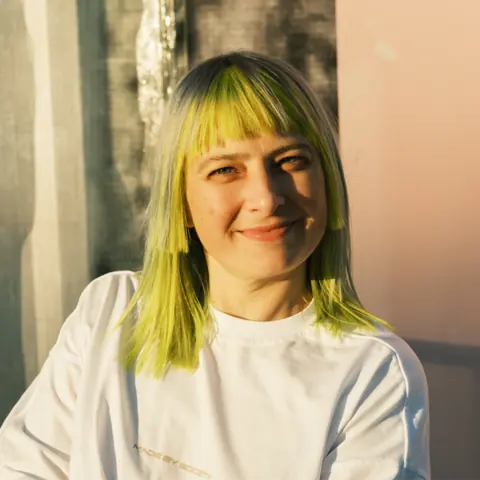
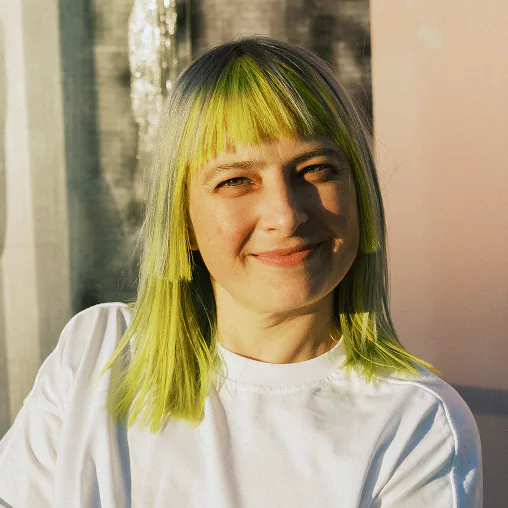
practitioners v1.3.0: three larger portraits, bun run portrait
Larger copies of the same shot, retouched, for johann-laur (978 px, from
tudock.de), jannik-streek (636 px, b310.de) and tereza-iofciu (508 px, her
website). Each won a blind review (CTO on a 2x laptop and a 3x phone, Claude
and Codex, two runs) outside the noise with both models and in both runs.
The other 30 portraits below 960 px on the website keep their files: no larger
copy of the same shot was found, or it tied or lost. Retouch alone tied with
the current files and sharp-2 lost (docs/agent-work/2026-11-08-portraits.md).

scripts/retouch-portrait.ts (bun run portrait) holds the treatment: crop,
gray-world white balance within 5 %, a highlight shoulder that only lowers,
Lanczos resize, optional sharp-2 on luminance, WebP q82. sharp is now a
direct devDependency at the version astro already installed.

AWAITING_ORIGINAL drops to 49: Johann Laur's portrait reaches the minimum.

diff --git a/scripts/retouch-portrait.ts b/scripts/retouch-portrait.ts
@@ -1,0 +1,150 @@
+// Deterministic portrait treatment, the same for every face and never a local edit of it:
+// optional square crop, white balance by channel gain, a tone curve whose soft highlight roll-off
+// tames skin shine, resize to the master size, and optionally sharp-2: an unsharp mask on luminance
+// only (radius 1.2 px, amount 70 %, threshold 2) at that size. WebP q82, as the website's
+// scripts/optimize-media.mjs encodes portraits. It never upscales.
+//
+//   bun run portrait <in> <out.webp> [--crop x,y,side] [--size px] [--sharpen] [--plain]
+//
+// --crop is the square in source pixels (head and shoulders, eyes about 40 % from the top);
+// --size defaults to the crop's side, capped at 1024; --plain skips white balance and tone.
+import sharp from "sharp";
+
+/** Gray-world gains at half strength, each within 5 % of neutral: a cast is pulled toward neutral
+ *  without repainting a coloured wall behind the person. */
+export function gains(rgb: Uint8Array): [number, number, number] {
+  const sum = [0, 0, 0];
+  let n = 0;
+  for (let i = 0; i < rgb.length; i += 3) {
+    const y = 0.299 * rgb[i]! + 0.587 * rgb[i + 1]! + 0.114 * rgb[i + 2]!;
+    if (y < 25 || y > 230) continue; // shadows and clipped highlights carry no cast
+    sum[0] += rgb[i]!;
+    sum[1] += rgb[i + 1]!;
+    sum[2] += rgb[i + 2]!;
+    n++;
+  }
+  if (!n) return [1, 1, 1];
+  const grey = (sum[0]! + sum[1]! + sum[2]!) / 3;
+  return sum.map((s) => Math.min(1.05, Math.max(0.95, 1 + (grey / s - 1) / 2))) as [
+    number,
+    number,
+    number,
+  ];
+}
+
+/** Identity below 0.75, then a shoulder that only lowers: 1.0 stays 1.0, the highlights between
+ *  come down by up to 4 grey levels. */
+export function tone(roll = 0.5): Uint8Array {
+  const lut = new Uint8Array(256);
+  for (let i = 0; i < 256; i++) {
+    let x = i / 255;
+    if (x > 0.75) {
+      const t = (x - 0.75) / 0.25;
+      x = 0.75 + 0.25 * (t - roll * 0.5 * t * (1 - t));
+    }
+    lut[i] = Math.round(x * 255);
+  }
+  return lut;
+}
+
+/** Gaussian blur of a single float channel, separable, edges clamped. */
+function blur(src: Float32Array, width: number, height: number, sigma: number) {
+  const r = Math.ceil(3 * sigma);
+  const k = Array.from({ length: 2 * r + 1 }, (_, i) =>
+    Math.exp(-((i - r) ** 2) / (2 * sigma ** 2)),
+  );
+  const sum = k.reduce((a, b) => a + b);
+  const pass = (a: Float32Array, dx: number, dy: number) => {
+    const out = new Float32Array(a.length);
+    for (let y = 0; y < height; y++)
+      for (let x = 0; x < width; x++) {
+        let v = 0;
+        for (let i = -r; i <= r; i++) {
+          const xx = Math.min(width - 1, Math.max(0, x + i * dx));
+          const yy = Math.min(height - 1, Math.max(0, y + i * dy));
+          v += k[i + r]! * a[yy * width + xx]!;
+        }
+        out[y * width + x] = v / sum;
+      }
+    return out;
+  };
+  return pass(pass(src, 1, 0), 0, 1);
+}
+
+/** sharp-2 in place on interleaved RGB: luminance detail above the threshold, added to all three
+ *  channels alike, so colour stays as it was. */
+export function sharpen(
+  rgb: Uint8Array,
+  width: number,
+  height: number,
+  sigma = 1.2,
+  amount = 0.7,
+  threshold = 2,
+) {
+  const y = new Float32Array(width * height);
+  for (let p = 0; p < y.length; p++)
+    y[p] = 0.299 * rgb[p * 3]! + 0.587 * rgb[p * 3 + 1]! + 0.114 * rgb[p * 3 + 2]!;
+  const blurred = blur(y, width, height, sigma);
+  for (let p = 0; p < y.length; p++) {
+    const d = y[p]! - blurred[p]!;
+    if (Math.abs(d) <= threshold) continue;
+    for (let c = 0; c < 3; c++)
+      rgb[p * 3 + c] = Math.min(255, Math.max(0, Math.round(rgb[p * 3 + c]! + amount * d)));
+  }
+}
+
+export interface Options {
+  crop?: { x: number; y: number; side: number };
+  size?: number;
+  sharpen?: boolean;
+  plain?: boolean;
+}
+
+export async function retouch(input: string | Buffer, o: Options = {}): Promise<Buffer> {
+  let img = sharp(input).rotate().toColourspace("srgb").removeAlpha();
+  const meta = await sharp(input).metadata();
+  const side = o.crop?.side ?? Math.min(meta.width, meta.height);
+  if (o.crop) img = img.extract({ left: o.crop.x, top: o.crop.y, width: side, height: side });
+  else if (meta.width !== meta.height)
+    img = img.resize(side, side, { fit: "cover", position: "attention" });
+  const size = o.size ?? Math.min(side, 1024);
+  if (size > side) throw new Error(`--size ${size} would upscale the ${side} px crop`);
+  const full = await img.raw().toBuffer({ resolveWithObject: true });
+  const rgb = new Uint8Array(full.data);
+  if (!o.plain) {
+    const g = gains(rgb);
+    const lut = tone();
+    for (let i = 0; i < rgb.length; i++)
+      rgb[i] = lut[Math.min(255, Math.round(rgb[i]! * g[i % 3]!))]!;
+  }
+  const raw = { width: full.info.width, height: full.info.height, channels: 3 as const };
+  const sized = new Uint8Array(
+    await sharp(rgb, { raw }).resize(size, size, { kernel: "lanczos3" }).raw().toBuffer(),
+  );
+  if (o.sharpen) sharpen(sized, size, size);
+  return sharp(sized, { raw: { width: size, height: size, channels: 3 } })
+    .webp({ quality: 82, effort: 6, smartSubsample: true })
+    .toBuffer();
+}
+
+if (import.meta.main) {
+  const args = process.argv.slice(2);
+  const flag = (name: string) => {
+    const i = args.indexOf(name);
+    return i < 0 ? undefined : args.splice(i, 2)[1];
+  };
+  const crop = flag("--crop")?.split(",").map(Number);
+  const size = flag("--size");
+  const opts: Options = {
+    crop: crop && { x: crop[0]!, y: crop[1]!, side: crop[2]! },
+    size: size ? Number(size) : undefined,
+    sharpen: args.includes("--sharpen"),
+    plain: args.includes("--plain"),
+  };
+  const [input, output] = args.filter((a) => !a.startsWith("--"));
+  if (!input || !output)
+    throw new Error(
+      "usage: bun run portrait <in> <out.webp> [--crop x,y,side] [--size px] [--sharpen] [--plain]",
+    );
+  await Bun.write(output, await retouch(input, opts));
+}

diff --git a/scripts/retouch-portrait.test.ts b/scripts/retouch-portrait.test.ts
@@ -1,0 +1,48 @@
+import { expect, test } from "bun:test";
+import sharp from "sharp";
+import { gains, retouch, sharpen, tone } from "./retouch-portrait";
+
+const raw = async (webp: Buffer) => new Uint8Array(await sharp(webp).raw().toBuffer());
+
+test("the tone curve keeps black, white and the midtones, and only lowers the highlights", () => {
+  const lut = tone();
+  expect([lut[0], lut[128], lut[191], lut[255]]).toEqual([0, 128, 191, 255]);
+  expect(lut[230]!).toBeLessThan(230);
+  for (let i = 1; i < 256; i++) expect(lut[i]!).toBeGreaterThanOrEqual(lut[i - 1]!);
+});
+
+test("white balance pulls a cast halfway toward grey, never more than 5 %", () => {
+  const warm = new Uint8Array(300).map((_, i) => [140, 120, 100][i % 3]!);
+  const [r, g, b] = gains(warm);
+  expect(r).toBeLessThan(1);
+  expect(b).toBeGreaterThan(1);
+  expect(Math.max(Math.abs(r - 1), Math.abs(g - 1), Math.abs(b - 1))).toBeLessThanOrEqual(
+    0.05 + 1e-9,
+  );
+});
+
+test("sharp-2 steepens a luminance edge, leaves flat areas and colour alone", () => {
+  const w = 16;
+  const rgb = new Uint8Array(w * w * 3).map((_, i) => (Math.floor(i / 3) % w < 8 ? 80 : 160));
+  const before = rgb.slice();
+  sharpen(rgb, w, w);
+  const at = (a: Uint8Array, x: number) => a[(4 * w + x) * 3]!;
+  expect(at(rgb, 7)).toBeLessThan(at(before, 7));
+  expect(at(rgb, 8)).toBeGreaterThan(at(before, 8));
+  expect(at(rgb, 2)).toBe(at(before, 2));
+  for (let p = 0; p < w * w; p++) expect(rgb[p * 3]).toBe(rgb[p * 3 + 2]!); // grey stays grey
+});
+
+test("a crop comes out square at the requested size, as WebP, and never upscaled", async () => {
+  const src = await sharp({
+    create: { width: 300, height: 200, channels: 3, background: "#808080" },
+  })
+    .png()
+    .toBuffer();
+  const out = await retouch(src, { crop: { x: 50, y: 20, side: 160 }, size: 120, sharpen: true });
+  expect(await sharp(out).metadata()).toMatchObject({ format: "webp", width: 120, height: 120 });
+  expect((await raw(out))[0]).toBeCloseTo(128, -1);
+  await expect(retouch(src, { crop: { x: 0, y: 0, side: 160 }, size: 200 })).rejects.toThrow(
+    /upscale/,
+  );
+});

diff --git a/src/lib/photo-size.test.ts b/src/lib/photo-size.test.ts
@@ -8,7 +8,7 @@ const MIN_WIDTH = 918;
 
 /** Portraits below the minimum today, on either side. Lower it when one reaches the minimum; a new portrait below
  *  the minimum raises it only after the person has been asked for a larger original. */
-const AWAITING_ORIGINAL = 50;
+const AWAITING_ORIGINAL = 49;
 
 test("the number of portraits below the minimum is AWAITING_ORIGINAL", async () => {
   const files = [...new Glob("src/content/practitioners/*/photo.webp").scanSync()];

diff --git a/CLAUDE.md b/CLAUDE.md
@@ -14,6 +14,12 @@ each folder's generated `entry.json` and `photo.webp` under the `./practitioners
 in which group is the website's roster and lives only there; every line about a person, title and
 expertise included, lives here.
 
+`bun run portrait <in> <out.webp>` (`scripts/retouch-portrait.ts`) turns a source photo into
+`photo.webp`: square crop, white balance, a highlight roll-off, WebP q82, never upscaled, and with
+`--sharpen` sharp-2 (luminance unsharp mask, 1.2 px, 70 %, threshold 2). Neither treatment is a
+default: a blind review against the current file decides, as in
+`docs/agent-work/2026-11-08-portraits.md`.
+
 Each practitioner improves their own entry here by pull request (`CONTRIBUTING.md`), and that
 change is their yes to the entry. The one workflow for h&w is the `practitioner-bio` skill in
 `.claude/skills/`: it reviews and merges such a pull request, drafts the mail that asks for one, or

diff --git a/CONTRIBUTING.md b/CONTRIBUTING.md
@@ -71,8 +71,8 @@ you: what you work on now, the roles or projects that shaped you, what you do wi
 client only where the work is public.
 
 **The portrait:** roughly square, at least 918 by 918 pixels. Upload it as a JPEG, PNG or WebP under
-any name and leave `photo.webp` in place, if your folder has one; we crop the new one and put it
-in its place.
+any name and leave `photo.webp` in place, if your folder has one; we crop the new one with
+`bun run portrait` and put it in its place.
 
 ## Your profile for matching
 
